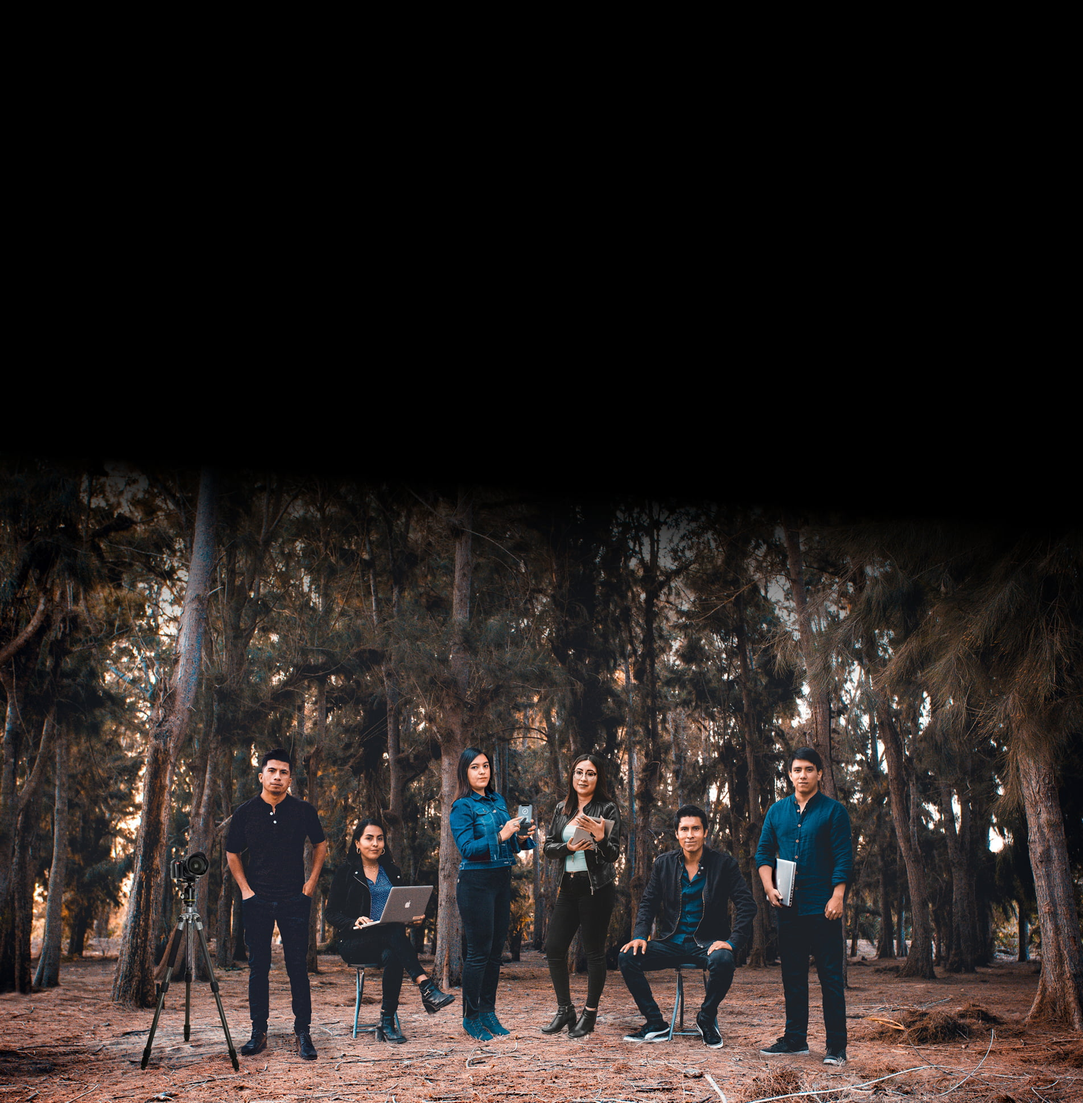
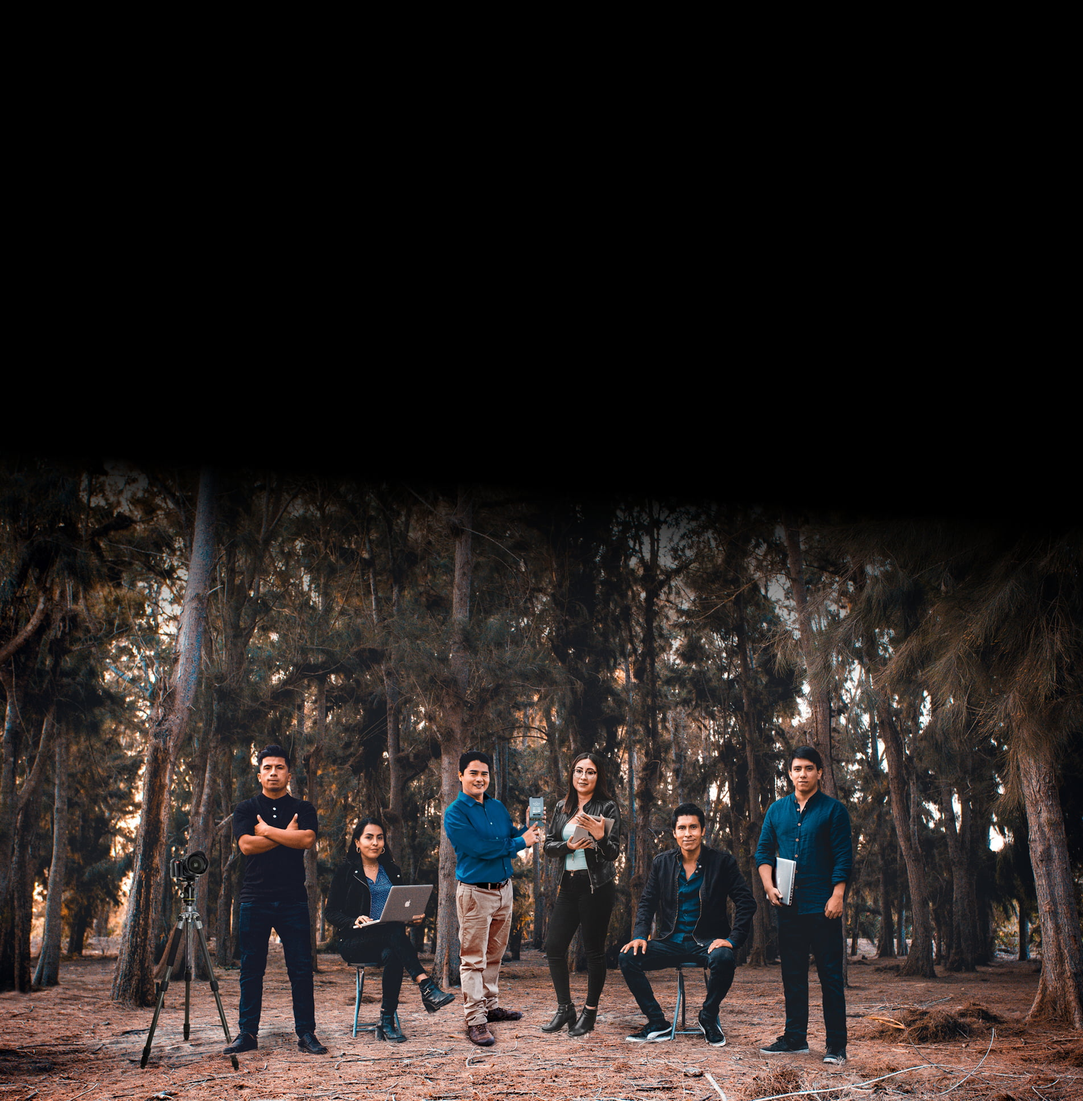
nuevo miembro añadido

diff --git a/src/data/equipo.js b/src/data/equipo.js
@@ -19,9 +19,9 @@ export const equipo = [
   },
   {
     id: 4,
-    name: 'Karla Ortega',
-    position: 'coordinadora de turismo',
-    description: 'Administradora en turismo responsable de coordinar las expediciones y los contenidos turísticos de la <em>Red Chimboteros.</em>'
+    name: 'Marco Antonio Castillo',
+    position: 'coordinador de turismo',
+    description: 'Promotor turístico responsable de las expediciones del equipo desarrollador y de los contenidos turísticos de la <em>Red Chimboteros.</em>'
   },
   {
     id: 5,
